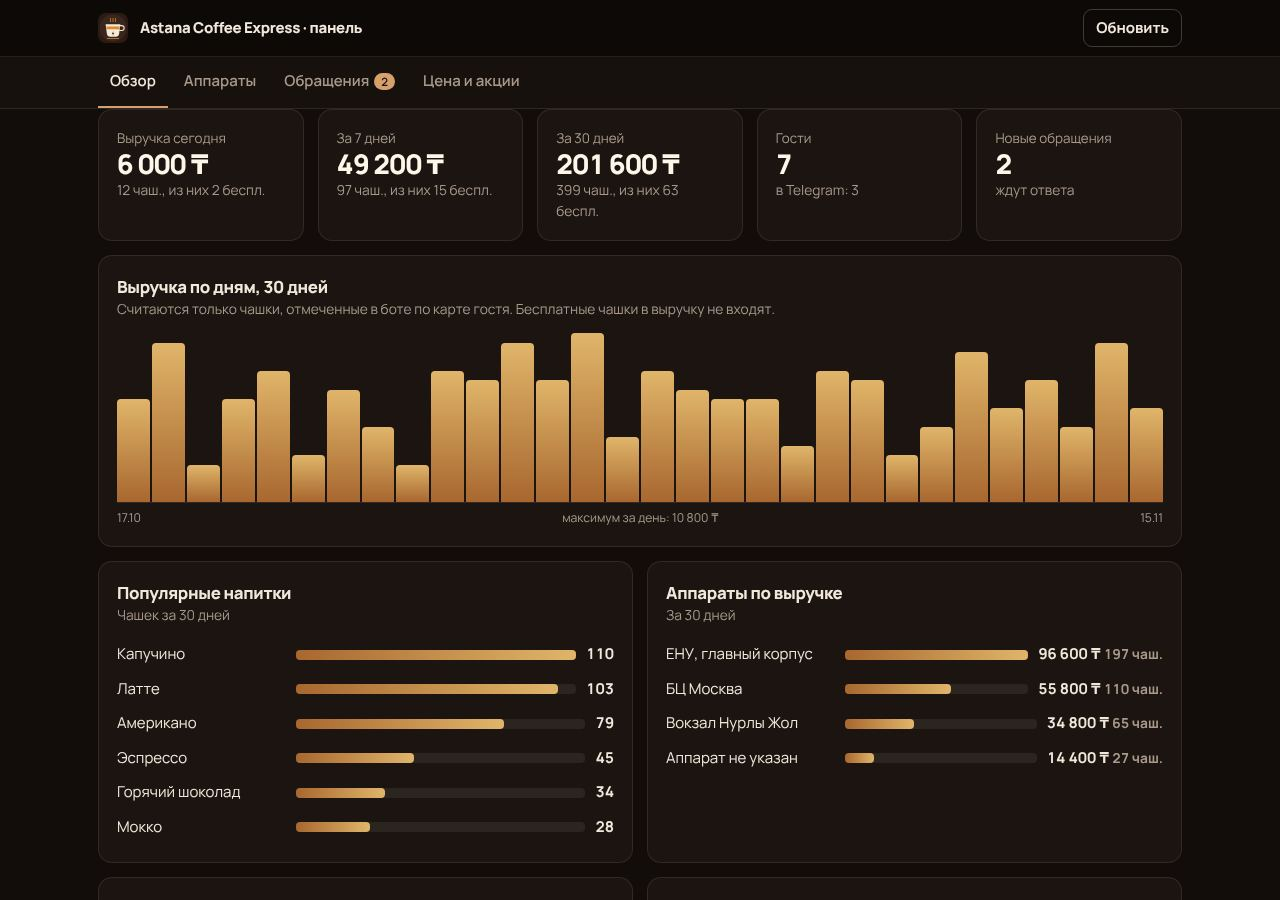
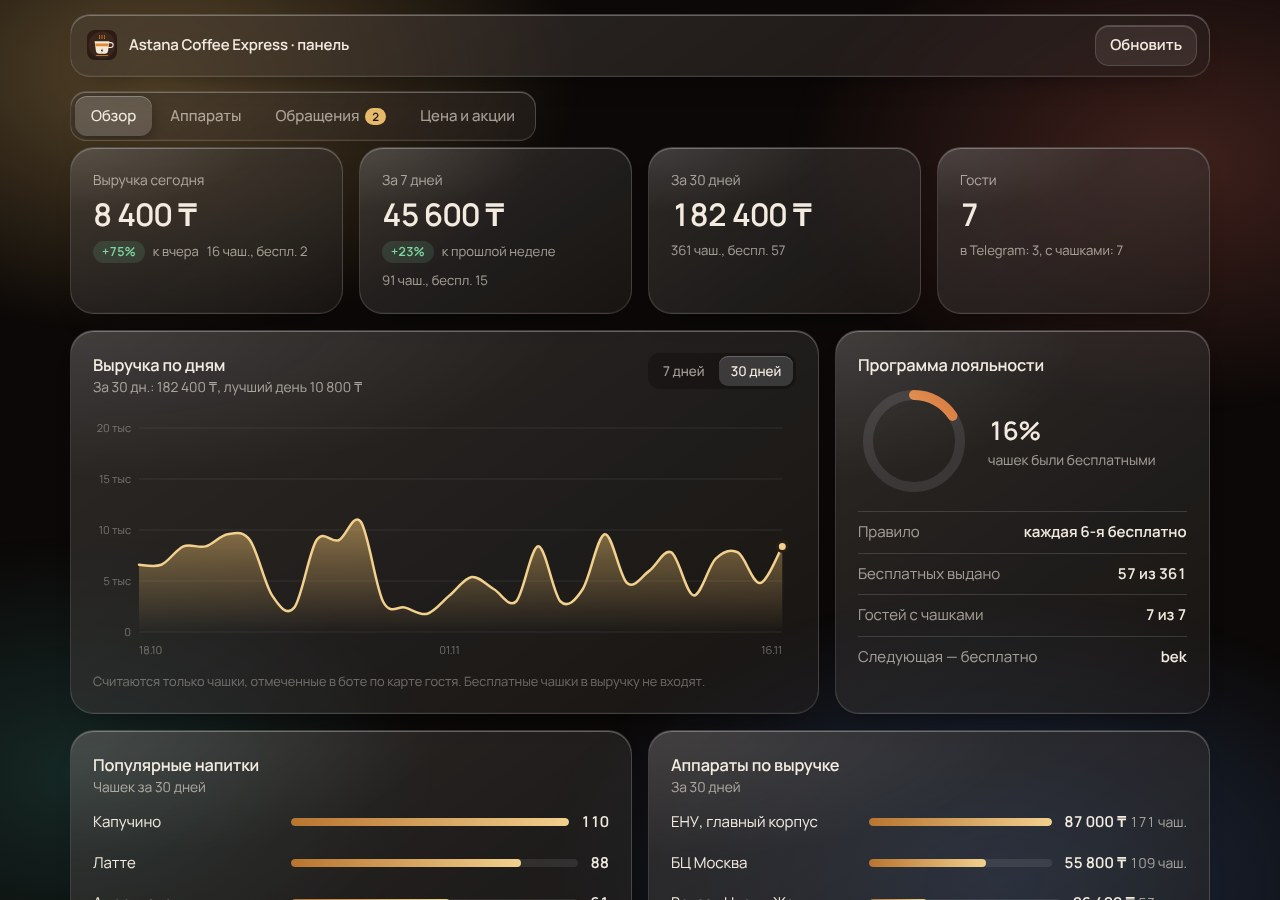
README: fresh screenshots of the glass admin panel, hero and gallery; highlights section; updated feature list
Claude-Session: https://claude.ai/code/session_01A3yWs89qEPxck15gfQxmk7

diff --git a/README.md b/README.md
@@ -39,12 +39,13 @@
 
 ### Сайт
 - Тёмный «кинематографичный» лендинг на **трёх языках** (русский, қазақша, English).
-- **Заставка:** зёрна падают, перемалываются, и кофе льётся в стакан.
+- **Кинематографичная заставка:** камера проходит по аппарату от зёрен до готового стакана, как в рекламном ролике. Показывается один раз за сессию, пропускается кликом или Esc.
 - **Живой аппарат** на первом экране: с каждой заполненной шкалой выбирается новый напиток и меняется свечение.
 - **Интерактивное меню:** при наведении стакан наливается заново, слой за слоем.
-- **Карта аппаратов** (Leaflet + OpenStreetMap): список точек, «открыто/закрыто» по времени Астаны, маршрут.
+- **Карта аппаратов** (Leaflet + OpenStreetMap): список точек, «открыто/закрыто» по времени Астаны, маршрут. Точки из админ-панели появляются на карте сразу.
+- **Баннер «Кофе за подписку»** и ссылка на Telegram-канал.
 - **Карта гостя прямо на сайте:** регистрация, штрихкод, прогресс до бесплатной чашки, выбор из шести дизайнов.
-- **3D-галерея дизайнов** с эффектами под каждую карту: лепестки, пар, снег, искры.
+- **3D-галерея дизайнов** на отдельной странице: карты как цельные объёмные предметы с толщиной, светом и тенью, которые меняются при повороте; под каждую карту свой эффект (лепестки, пар, снег, искры).
 - **Калькулятор дохода** для владельцев помещений и **форма обращений** (установка, жалоба, возврат).
 
 ### Telegram-бот
@@ -56,13 +57,16 @@
 - Ссылка в админ-панель по команде `/admin`.
 
 ### Админ-панель
-- Выручка за день, неделю и месяц, график по дням, популярные напитки, **выручка по каждому аппарату**.
+- Стеклянный дашборд (glass) с адаптацией под телефон: вкладки «Обзор», «Аппараты», «Обращения», «Цены и акции».
+- Выручка за день, неделю и месяц с динамикой к вчера и прошлой неделе, сглаженный график по дням (7/30), загрузка по часам, популярные напитки, **выручка по каждому аппарату**.
 - Программа лояльности: сколько бесплатных выдано, кому следующая чашка в подарок, самые активные гости.
 - Аппараты с адресами, часами работы и координатами — сразу появляются на карте сайта.
 - Обращения с сайта со статусами и заметками; о новом бот сразу пишет админам.
 - Цена за чашку, строка акции на сайте, рассылка всем гостям.
 
 ## Скриншоты
+
+### Сайт
 
 | Напитки | Карта гостя | Карта в боте |
 |---|---|---|
@@ -72,9 +76,22 @@
 |---|---|
 | ![3D-галерея дизайнов](docs/screenshots/gallery.jpg) | ![Сайт на телефоне](docs/screenshots/mobile.jpg) |
 
-**Админ-панель** (тестовые данные)
+### Админ-панель (тестовые данные)
 
-![Админ-панель](docs/screenshots/admin.jpg)
+![Админ-панель, обзор](docs/screenshots/admin.jpg)
+
+| Аппараты | Телефон |
+|---|---|
+| ![Аппараты в админ-панели](docs/screenshots/admin-machines.jpg) | <img src="docs/screenshots/admin-mobile.jpg" width="260" alt="Админ-панель на телефоне"> |
+
+## Что внутри интересного
+
+- **Производительность без фреймворков.** Анимации на `transform` и `opacity`, фоны карт заранее размыты в WebP, канвас-эффекты ставятся на паузу при переключении, на админ-панели нет `backdrop-filter` на панелях. Прокрутка админки при 4-кратном замедлении процессора выросла с 24 до 61 кадра в секунду.
+- **Три языка без библиотек.** Словарь `RU → [KZ, EN]`, подмена текста по узлам DOM, язык запоминается; цена подставляется из API.
+- **Общий аккаунт сайта и бота.** Один логин работает и в Telegram, и на сайте; дизайн карты, выбранный в галерее, сразу приходит в бот.
+- **Две базы под один интерфейс.** Excel-файл для локального запуска и PostgreSQL для хостинга; схема дополняется миграциями при старте.
+- **Админ-панель без пароля.** Бот выдаёт подписанную ссылку на 12 часов только администраторам.
+- **Уважение к настройкам доступности.** При `prefers-reduced-motion` заставка и тяжёлые анимации отключаются.
 
 ## Как это устроено
 
@@ -116,8 +133,10 @@ bot/            Telegram-бот, API сайта и админ-панели
   db.py         база в Excel-файле (локальный режим)
   sqldb.py      база в PostgreSQL (хостинг)
   barcodes.py   штрихкоды и картинка карты гостя
-site/           сайт: лендинг, галерея дизайнов, админ-панель
-tests/          автотесты
+site/           сайт: index.html, design.html (галерея), admin.html (панель), 404.html
+  cards/        шесть дизайнов карты в WebP (фон, миниатюра, размытый фон)
+  vendor/       Leaflet, подключается без CDN
+tests/          автотесты (pytest): регистрация, карта, админ-панель, подписка на канал
 docs/           инструкция и скриншоты
 render.yaml     конфигурация Render
 ```
